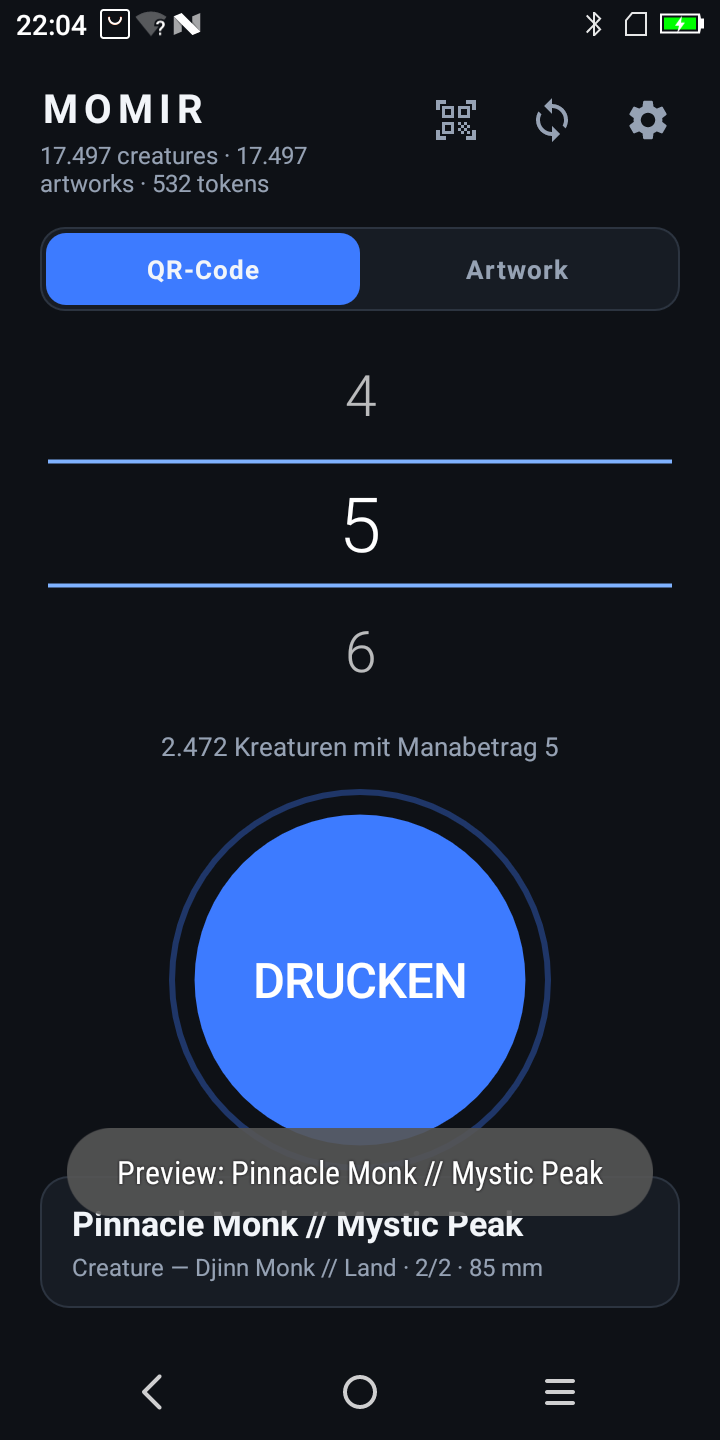
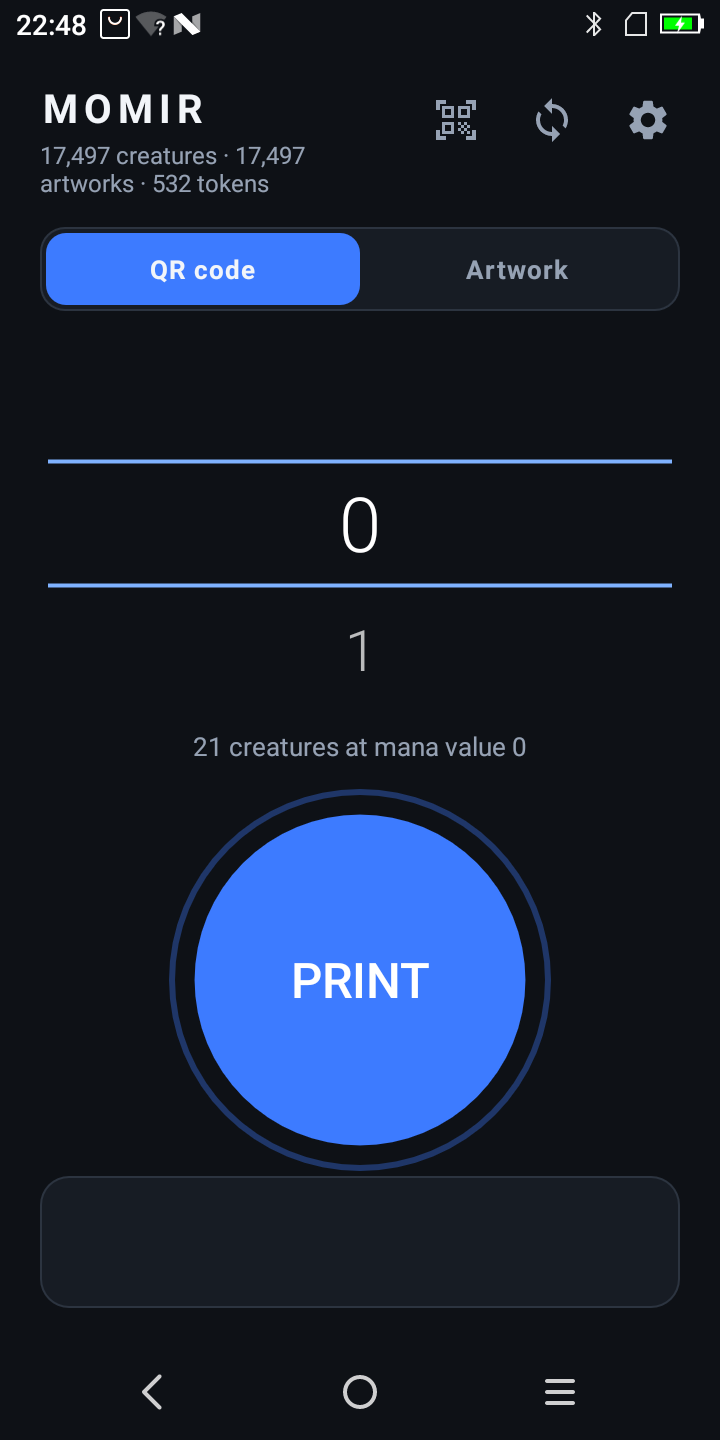
English throughout, and print the card's colour on the slip
The app was inconsistent: a partial German translation shipped alongside status
text hardcoded in English, so on a German-configured device the two mixed on the
same screen. Dropped the translation, moved the remaining hardcoded strings into
resources, and pinned number formatting to Locale.US - the device formatter
rendered 17,497 as "17.497", which reads as a decimal in English.

Slips now state the creature's colour. A thermal print is monochrome and the
mana cost does not always give it away: Devoid creatures are colourless despite
a coloured cost, Stonecoil Serpent costs {X}, and Kobolds of Kher Keep has no
mana cost at all and is red. Momir hands you a token copy, and colour decides
what can target it.

Cost and colour moved out of the narrow title column onto one full-width line
under the type line. That is also the proper fix for something previously
patched over: in artwork mode the title column is about 170 dots wide once the
badge and QR have taken their share, and Reaper King's "2/W 2/U 2/B 2/R 2/G" ran
underneath the QR and was being ellipsised to hide it.

diff --git a/app/src/main/java/software/zeasy/momir/print/SlipContent.kt b/app/src/main/java/software/zeasy/momir/print/SlipContent.kt
@@ -6,15 +6,20 @@ import software.zeasy.momir.data.Token
 /**
  * What actually goes on a slip, independent of whether it came from a creature
  * card or a token. Both print through the same layout code; the only visible
- * difference is that a creature carries a mana value badge and a token carries
- * a "TOKEN" kicker instead.
+ * difference is that a creature carries a mana value badge and a token says so
+ * in its subline.
  */
 data class SlipContent(
     val title: String,
     /** Mana value, drawn in the ring. Null for tokens, which have no mana value. */
     val badge: String?,
-    /** Small line under the title: mana cost, or the word TOKEN. */
-    val kicker: String,
+    /**
+     * Full-width line under the type line: mana cost and colour, or TOKEN and
+     * colour. Colour is spelled out because a thermal slip is monochrome - there
+     * is nothing on the paper that tells you a Devoid creature is colourless, or
+     * that a card with no mana cost at all is red.
+     */
+    val subline: String,
     val typeLine: String,
     val powerToughness: String?,
     val rulesText: String,
@@ -26,6 +31,31 @@ data class SlipContent(
     val hasArt: Boolean get() = artOffset != null && artLength != null && artHeight != null
 
     companion object {
+
+        private const val WUBRG = "WUBRG"
+        private val COLOR_NAMES = mapOf(
+            'W' to "White", 'U' to "Blue", 'B' to "Black", 'R' to "Red", 'G' to "Green",
+        )
+
+        /**
+         * "GW" -> "White / Green", "" -> "Colorless", "WUBRG" -> "W U B R G".
+         *
+         * Always WUBRG order, never the order the letters happened to arrive in -
+         * that is the order players say a colour pair in.
+         *
+         * Four and five colour cards fall back to letters. "White / Blue / Black
+         * / Red / Green" is thirty-five characters that would push the type line
+         * onto a second row, and any player who has a five-colour creature in
+         * front of them can read WUBRG.
+         */
+        fun colorLabel(symbols: String): String {
+            val ordered = WUBRG.filter { symbols.contains(it) }
+            return when {
+                ordered.isEmpty() -> "Colorless"
+                ordered.length <= 3 -> ordered.map { COLOR_NAMES.getValue(it) }.joinToString(" / ")
+                else -> ordered.toCharArray().joinToString(" ")
+            }
+        }
 
         /**
          * "https://scryfall.com/card/mh1/57/windreaver" -> ".../card/mh1/57"
@@ -48,13 +78,17 @@ data class SlipContent(
 
         fun of(card: Card): SlipContent {
             val badge = card.manaValue.toString()
-            // {5} under a badge that already says 5 is noise. Only generic-plus-
-            // coloured costs actually tell you something the mana value does not.
+            // {5} next to a badge that already says 5 is noise. Only a cost with
+            // colour in it tells you something the mana value does not.
             val cost = card.plainManaCost.takeIf { it != badge }.orEmpty()
+            val subline = listOf(cost, colorLabel(card.colorIdentity))
+                .filter { it.isNotEmpty() }
+                .joinToString(SEPARATOR)
+
             return SlipContent(
                 title = card.name,
                 badge = badge,
-                kicker = cost,
+                subline = subline,
                 typeLine = card.typeLine,
                 powerToughness = card.powerToughness,
                 rulesText = card.oracleText,
@@ -68,7 +102,7 @@ data class SlipContent(
         fun of(token: Token) = SlipContent(
             title = token.name,
             badge = null,
-            kicker = "TOKEN",
+            subline = "TOKEN" + SEPARATOR + colorLabel(token.colors),
             typeLine = token.typeLine,
             powerToughness = token.powerToughness,
             rulesText = token.oracleText,
@@ -77,5 +111,7 @@ data class SlipContent(
             artLength = token.artLength,
             artHeight = token.artHeight,
         )
+
+        private const val SEPARATOR = "  ·  "
     }
 }

diff --git a/app/src/main/java/software/zeasy/momir/ui/MainActivity.kt b/app/src/main/java/software/zeasy/momir/ui/MainActivity.kt
@@ -31,6 +31,7 @@ import software.zeasy.momir.print.SlipRenderer
 import software.zeasy.momir.print.SunmiPrinter
 import software.zeasy.momir.sync.SyncService
 import java.text.NumberFormat
+import java.util.Locale
 
 /**
  * One screen: pick a mana value, hit the button, take the slip.
@@ -49,7 +50,13 @@ class MainActivity : AppCompatActivity() {
     private lateinit var printer: SunmiPrinter
 
     private val renderer = SlipRenderer()
-    private val numberFormat: NumberFormat = NumberFormat.getIntegerInstance()
+
+    /**
+     * Pinned to US rather than the device locale. The app is English-only, and on
+     * a German-configured V2 the default formatter renders 17,497 as "17.497",
+     * which an English reader takes for a decimal.
+     */
+    private val numberFormat: NumberFormat = NumberFormat.getIntegerInstance(Locale.US)
 
     /** The creature currently on the result card, so its tokens stay reachable. */
     private var lastCard: Card? = null
@@ -152,11 +159,13 @@ class MainActivity : AppCompatActivity() {
         binding.manaWheel.setSelectedValue(restore)
         updateCountLabel(binding.manaWheel.selectedValue ?: restore)
 
-        binding.corpusInfo.text = buildString {
-            append(numberFormat.format(repository.cardCount())).append(" creatures")
-            append(" · ").append(numberFormat.format(repository.artCount())).append(" artworks")
-            val tokens = repository.tokenCount()
-            if (tokens > 0) append(" · ").append(numberFormat.format(tokens)).append(" tokens")
+        val cards = numberFormat.format(repository.cardCount())
+        val artworks = numberFormat.format(repository.artCount())
+        val tokens = repository.tokenCount()
+        binding.corpusInfo.text = if (tokens > 0) {
+            getString(R.string.corpus_summary_tokens, cards, artworks, numberFormat.format(tokens))
+        } else {
+            getString(R.string.corpus_summary, cards, artworks)
         }
     }
 
@@ -298,7 +307,7 @@ class MainActivity : AppCompatActivity() {
             }
 
             showResult(card, height)
-            toast("Preview: ${card.name}")
+            toast(getString(R.string.preview_written, card.name))
         }
     }
 
@@ -310,7 +319,7 @@ class MainActivity : AppCompatActivity() {
             card.typeLine.takeIf { it.isNotBlank() },
             card.powerToughness,
             contentDots?.let {
-                String.format("%.0f mm", it / EscPos.DOTS_PER_MM + settings.tearFeedMm)
+                String.format(Locale.US, "%.0f mm", it / EscPos.DOTS_PER_MM + settings.tearFeedMm)
             },
         ).joinToString(" · ")
 
@@ -466,7 +475,7 @@ class MainActivity : AppCompatActivity() {
             val content = SlipContent(
                 title = "Test Slip",
                 badge = "8",
-                kicker = "CALIBRATION",
+                subline = "CALIBRATION",
                 typeLine = "Tear here and measure",
                 powerToughness = null,
                 rulesText = "Tear this off and hold it against a ruler. Adjust \"feed after " +
@@ -477,7 +486,7 @@ class MainActivity : AppCompatActivity() {
             )
             val raster = printSlip(content)
             if (raster != null) {
-                toast("Slip is ${"%.0f".format(raster.heightMm + settings.tearFeedMm)} mm")
+                toast(getString(R.string.slip_length_toast, raster.heightMm + settings.tearFeedMm))
             }
         }
     }

diff --git a/app/src/main/java/software/zeasy/momir/print/SlipRenderer.kt b/app/src/main/java/software/zeasy/momir/print/SlipRenderer.kt
@@ -118,21 +118,29 @@ class SlipRenderer {
         val namePaint = textPaint(34f, bold = true)
         val nameLayout = fitToLines(content.title, namePaint, titleWidth, 2, 20f)
 
-        val kickerPaint = textPaint(20f)
-        val kickerHeight = if (content.kicker.isNotEmpty()) (kickerPaint.fontSpacing + 2).toInt() else 0
-
         val typePaint = textPaint(21f)
         val ptPaint = textPaint(23f, bold = true)
         val ptText = content.powerToughness.orEmpty()
         val ptWidth = if (ptText.isEmpty()) 0 else ptPaint.measureText(ptText).toInt() + 8
         val typeLayout = fitToLines(content.typeLine, typePaint, contentWidth - ptWidth, 2, 15f)
 
+        // Cost and colour sit below the type line, across the full width, rather
+        // than under the name. In artwork mode the title column is only about
+        // 170 dots wide once the badge and the QR have taken their share, and
+        // Reaper King's "2/W 2/U 2/B 2/R 2/G" does not fit in that at any size
+        // worth reading.
+        val sublinePaint = textPaint(19f)
+        val sublineLayout = if (content.subline.isNotEmpty()) {
+            fitToLines(content.subline, sublinePaint, contentWidth, 1, 14f)
+        } else null
+
         val headerHeight = maxOf(
             if (hasBadge) badgeSize else 0,
-            nameLayout.height + kickerHeight,
+            nameLayout.height,
             headerQrSize,
         )
-        val typeHeight = maxOf(typeLayout.height, if (ptText.isEmpty()) 0 else ptPaint.fontSpacing.toInt())
+        val typeHeight = maxOf(typeLayout.height, if (ptText.isEmpty()) 0 else ptPaint.fontSpacing.toInt()) +
+            (sublineLayout?.let { it.height + 3 } ?: 0)
 
         val bodyQr = if (!wantsArt) qrMatrix else null
         val hasBody = wantsArt || bodyQr != null
@@ -185,20 +193,6 @@ class SlipRenderer {
         nameLayout.draw(canvas)
         canvas.restore()
 
-        if (content.kicker.isNotEmpty()) {
-            // Clip to the title column. Reaper King's cost is "2/W 2/U 2/B 2/R 2/G",
-            // which is wide enough to run under the header QR if left unbounded.
-            val kicker = TextUtils.ellipsize(
-                content.kicker, kickerPaint, titleWidth.toFloat(), TextUtils.TruncateAt.END,
-            )
-            canvas.drawText(
-                kicker, 0, kicker.length,
-                titleLeft.toFloat(),
-                (y + nameLayout.height + kickerPaint.textSize).toFloat(),
-                kickerPaint,
-            )
-        }
-
         y += headerHeight + blockGap
         drawRule(canvas, y)
         y += ruleThickness + blockGap
@@ -214,6 +208,13 @@ class SlipRenderer {
                 (y + ptPaint.textSize).toFloat(),
                 ptPaint,
             )
+        }
+
+        if (sublineLayout != null) {
+            canvas.save()
+            canvas.translate(sideMargin.toFloat(), (y + typeLayout.height + 3).toFloat())
+            sublineLayout.draw(canvas)
+            canvas.restore()
         }
         y += typeHeight
 

diff --git a/docs/printing.md b/docs/printing.md
@@ -64,26 +64,42 @@ rules text. The mode only decides what fills the middle.
 ```
 QR mode                          Artwork mode
 ┌──────────────────────────┐     ┌──────────────────────────┐
-│ (5)  Pinnacle Monk //    │     │ (5)  Monstrosity   ▓▓▓▓  │  ← small QR
-│      Mystic Peak         │     │      of the Lake   ▓▓▓▓  │
-│      3 R R               │     │      4 U           ▓▓▓▓  │
+│ (3)  Blood-Cursed        │     │ (3)  Timmerian     ▓▓▓▓  │  ← small QR
+│      Knight              │     │      Fiends        ▓▓▓▓  │
 ├──────────────────────────┤     ├──────────────────────────┤
-│ Creature — Djinn    2/2  │     │ Legendary — Kraken  4/6  │
+│ Creature — Vampire  3/2  │     │ Creature — Horror   1/1  │
+│ 1 W B · White / Black    │     │ 1 B B · Black            │  ← cost and colour
 ├──────────────────────────┤     ├──────────────────────────┤
 │      ▓▓▓▓▓▓▓▓▓▓▓         │     │                          │
 │      ▓▓ large QR ▓       │     │      dithered artwork    │
 │      ▓▓▓▓▓▓▓▓▓▓▓         │     │                          │
 ├──────────────────────────┤     ├──────────────────────────┤
-│ Prowess (Whenever you    │     │ When Monstrosity of the  │
-│ cast a noncreature…      │     │ Lake enters, you may…    │
+│ As long as you control   │     │ Remove this card from    │
+│ an enchantment…          │     │ your deck before…        │
 └──────────────────────────┘     └──────────────────────────┘
 ```
 
 The mana value badge is an **outlined ring, not a filled disc**. A solid 54-dot
 circle dumps a lot of heat into one spot and bleeds on cheap paper.
 
-The mana cost line under the name is omitted when it would just repeat the badge
-— `{5}` under a badge that already says 5 is noise, while `4 U` is not.
+### The colour line
+
+A thermal slip is monochrome, so nothing on the paper tells you what colour the
+creature is. Usually the mana cost gives it away, but not always — a Devoid
+creature is colourless despite a coloured cost, Stonecoil Serpent costs `{X}`
+and is colourless, and Kobolds of Kher Keep has no mana cost at all and is red.
+Since Momir hands you a *token copy* of the card, and colour decides what can
+target it, the slip spells it out.
+
+Colours are named for one to three of them ("White / Black") and shortened to
+letters for four or five, because "White / Blue / Black / Red / Green" is
+thirty-five characters and anyone holding a five-colour creature can read WUBRG.
+
+That line runs the **full width, under the type line**, rather than under the
+card name. In artwork mode the title column is only about 170 dots wide once the
+badge and the QR have taken their share, and Reaper King's
+`2/W 2/U 2/B 2/R 2/G` does not fit in that at any size worth reading — it used
+to run underneath the QR and get clipped.
 
 ### Why artwork slips still carry a QR
 
